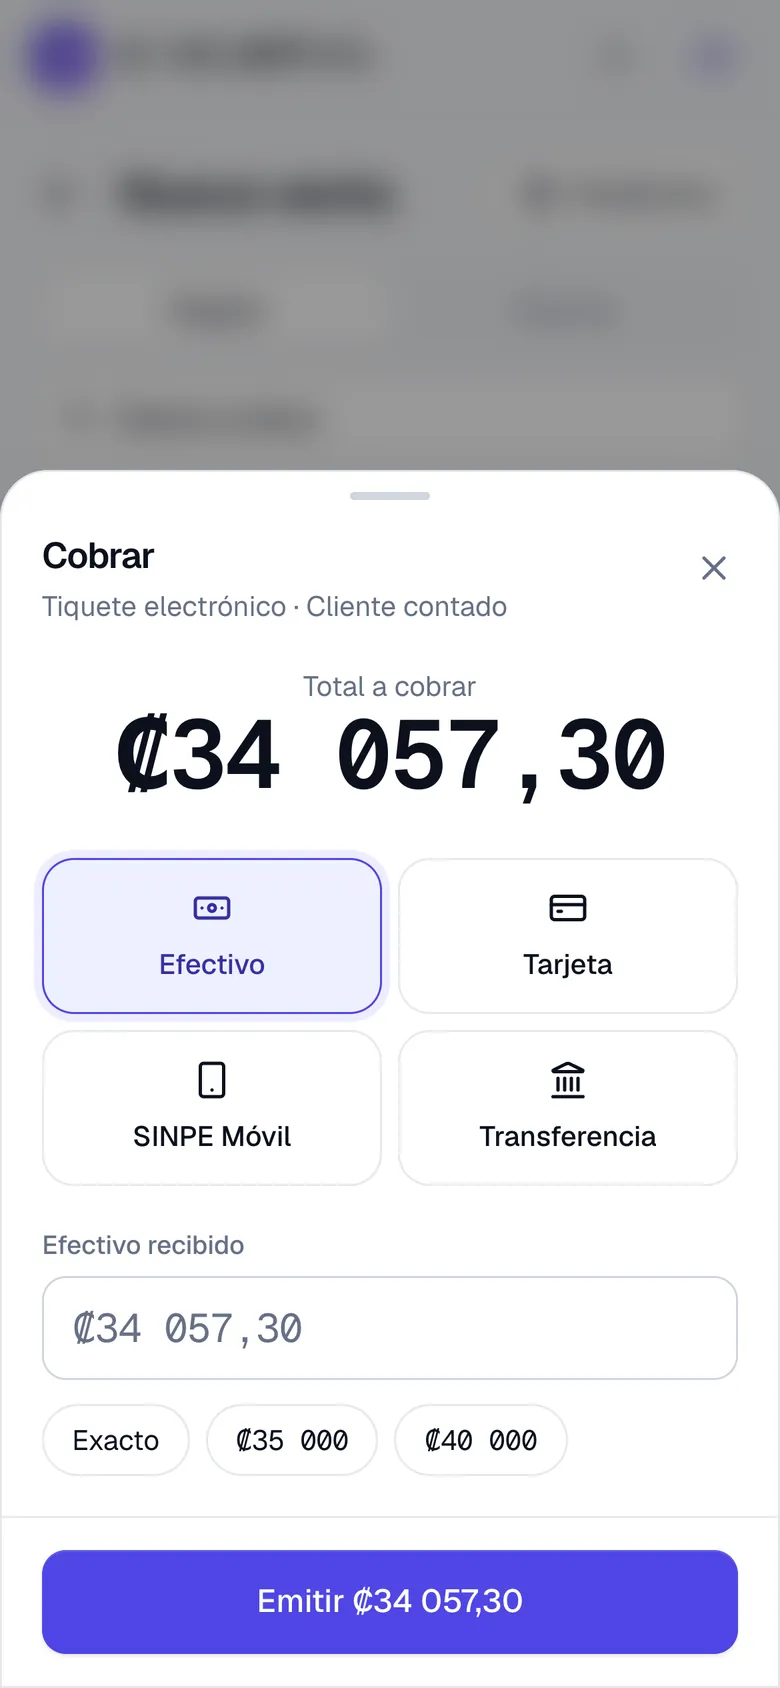
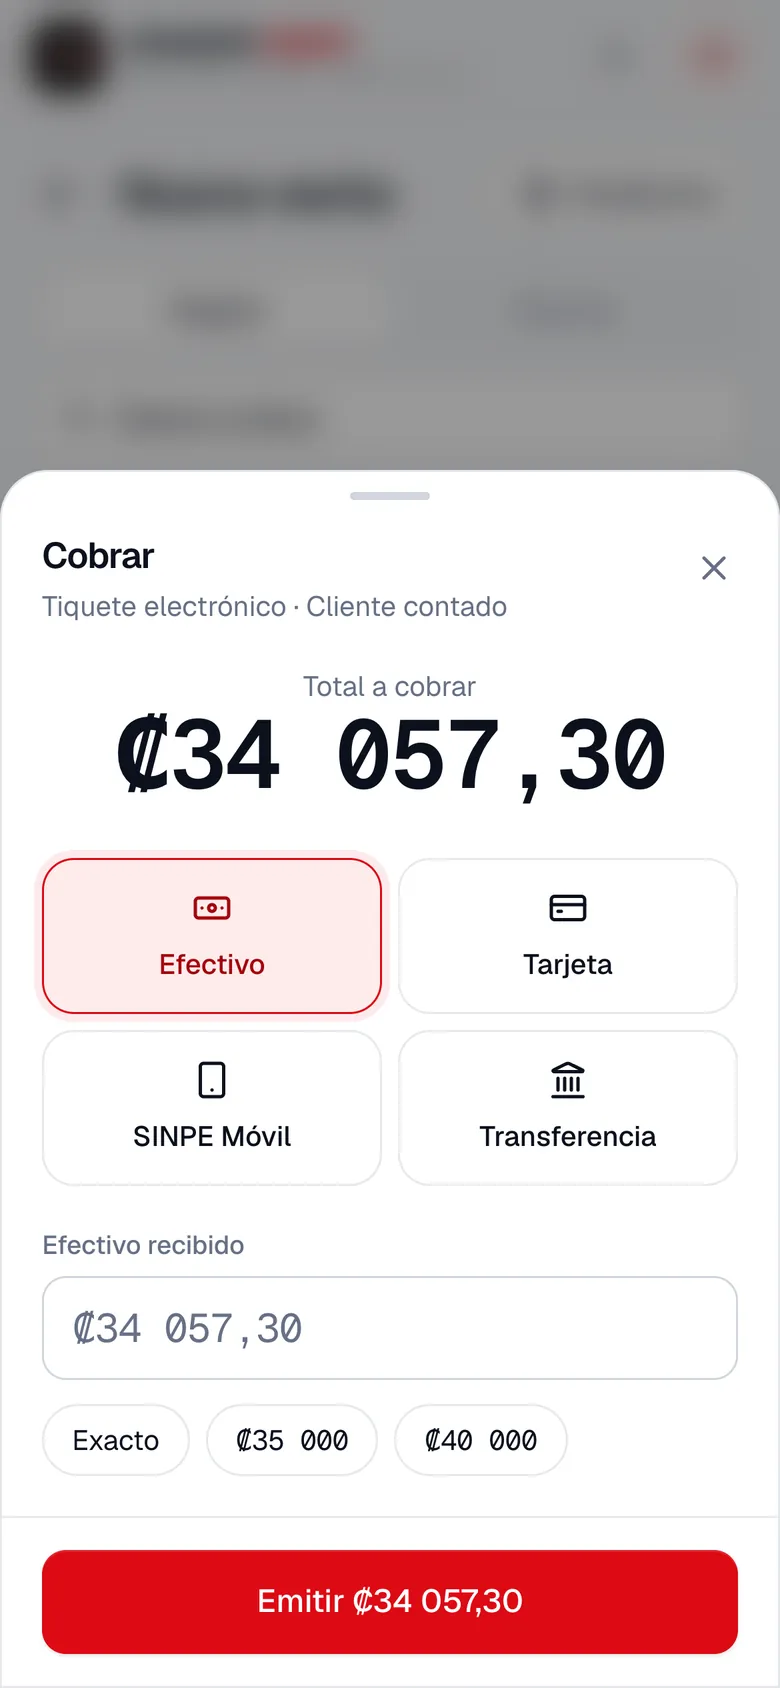
Montevo One: sección del producto propio; Repuestos Oconitrillo y Oconitrillo Usados; capturas nuevas de Ranger SWAT
Claude-Session: https://claude.ai/code/session_018UCKGMtG2XUVk9aNjHVJGe

diff --git a/index.html b/index.html
@@ -120,6 +120,7 @@
       <nav class="nav__links" id="navLinks" aria-label="Principal">
         <a href="#services">Servicios</a>
         <a href="#demos">Ejemplos</a>
+        <a href="#montevo-one">Montevo One</a>
         <a href="#work">Trabajo</a>
         <a href="#process">Proceso</a>
         <a href="#contact" class="nav__cta">Hablemos</a>
@@ -176,7 +177,7 @@
     <!-- STATEMENT (scroll-driven) -->
     <section class="statement" aria-label="Quiénes somos">
       <div class="statement__sticky">
-        <p class="statement__text" data-scrub>Diseño y programo cosas que la gente usa de verdad: el sistema que factura en tu negocio, el portafolio que muestra tu trabajo, la invitación que todos comentan. Una sola persona a cargo, de la idea al lanzamiento.</p>
+        <p class="statement__text" data-scrub>Diseño y programo cosas que la gente usa de verdad: el sistema que factura en tu negocio, el portafolio que muestra tu trabajo, la invitación que todos comentan. Nada genérico: todo a tu medida, con tu idea y tu marca. Una sola persona a cargo, de la idea al lanzamiento.</p>
       </div>
     </section>
 
@@ -222,7 +223,7 @@
             </article>
             <article class="pillar" data-pillar="2">
               <h3 class="pillar__name">Facturación electrónica</h3>
-              <p class="pillar__desc">Sistemas de facturación conectados a Hacienda, para régimen simplificado y personas jurídicas. Comprobantes válidos, sin complicarte.</p>
+              <p class="pillar__desc">Con Montevo One, mi sistema propio: facturación conectada a Hacienda junto con inventario, clientes, caja o citas, todo en un solo lugar y a tu medida.</p>
               <ul class="pillar__list"><li>Facturas y tiquetes electrónicos</li><li>Notas de crédito y débito</li><li>Régimen simplificado</li><li>Personas jurídicas</li></ul>
             </article>
             <article class="pillar" data-pillar="3">
@@ -353,6 +354,87 @@
       </div>
     </section>
 
+    <!-- MONTEVO ONE (producto propio) -->
+    <section class="billing" id="montevo-one" data-nav="dark" data-glow>
+      <div class="wrap">
+        <header class="billing__head">
+          <div class="section-head" data-reveal>
+            <p class="badge"><span class="badge__dot"></span>Nuevo · Producto propio</p>
+            <h2 class="section-title">Montevo One.<br /><span class="muted">Todo tu negocio en un solo lugar.</span></h2>
+          </div>
+          <p class="billing__lead" data-reveal style="--d:120ms">Facturación electrónica y todo lo que tu negocio usa cada día, como inventario, clientes, caja o citas, en un solo sistema rápido y fácil de usar. Y hecho a tu medida: con tu marca y a tu manera de trabajar.</p>
+        </header>
+
+        <div class="billing__show" data-reveal>
+          <div class="billing__tabs filters filters--dark" role="tablist" aria-label="Ver un sistema">
+            <span class="filters__pill" aria-hidden="true"></span>
+            <button role="tab" aria-selected="true" data-skin="0">Ranger SWAT</button>
+            <button role="tab" aria-selected="false" data-skin="1">Oconitrillo</button>
+            <button role="tab" aria-selected="false" data-skin="2">Usados</button>
+          </div>
+          <div class="billing__stage">
+            <div class="billing__desk">
+              <img class="is-on" src="./projects/ranger-swat/cover.webp" alt="Inicio del sistema de Ranger SWAT en computadora" width="1600" height="1000" loading="lazy" decoding="async" />
+              <img src="./projects/repuestos-oconitrillo/cover.webp" alt="Inicio del sistema de Repuestos Oconitrillo en computadora" width="1600" height="1000" loading="lazy" decoding="async" />
+              <img src="./projects/oconitrillo-usados/cover.webp" alt="Venta de una pieza usada en el sistema de Oconitrillo" width="1600" height="1000" loading="lazy" decoding="async" />
+            </div>
+            <div class="billing__phone">
+              <img class="is-on" src="./projects/ranger-swat/movil-cobrar.webp" alt="Cobro en el celular con Ranger SWAT" width="780" height="1688" loading="lazy" decoding="async" />
+              <img src="./projects/repuestos-oconitrillo/movil-caja.webp" alt="Caja abierta en el celular con Repuestos Oconitrillo" width="780" height="1688" loading="lazy" decoding="async" />
+              <img src="./projects/oconitrillo-usados/movil-emitido.webp" alt="Tiquete emitido en el celular con Oconitrillo Usados" width="780" height="1688" loading="lazy" decoding="async" />
+            </div>
+          </div>
+          <p class="billing__caption">La misma base en tres negocios distintos, cada uno con sus colores, su logo y su forma de vender.</p>
+        </div>
+
+        <div class="versus">
+          <div class="versus__col" data-reveal>
+            <p class="versus__label">Un sistema genérico</p>
+            <ul>
+              <li>El mismo producto para todos</li>
+              <li>Tú te adaptas a él</li>
+              <li>Un programa para facturar y otros para lo demás</li>
+              <li>Soporte de un centro de llamadas</li>
+            </ul>
+          </div>
+          <div class="versus__col versus__col--one" data-reveal style="--d:100ms">
+            <p class="versus__label">Montevo One</p>
+            <ul>
+              <li>Moldeado a tu negocio, con tu marca</li>
+              <li>Él se adapta a ti y crece contigo</li>
+              <li>Todo en un solo lugar, en una sola inversión</li>
+              <li>Hablas directo con quien lo programa</li>
+            </ul>
+          </div>
+        </div>
+
+        <p class="eyebrow billing__sub" data-reveal>Lo que puede incluir</p>
+        <ul class="feats">
+          <li data-reveal><h3>Facturación electrónica</h3><p>Tiquetes, facturas y notas de crédito con CABYS, firmados y enviados a Hacienda.</p></li>
+          <li data-reveal style="--d:60ms"><h3>Régimen simplificado</h3><p>Facturación sencilla para quien no necesita más.</p></li>
+          <li data-reveal style="--d:120ms"><h3>Inventario</h3><p>Existencias al día con cada venta y avisos de stock bajo.</p></li>
+          <li data-reveal style="--d:180ms"><h3>Clientes y crédito</h3><p>Datos de cada cliente y cuentas por cobrar con la antigüedad de cada saldo.</p></li>
+          <li data-reveal style="--d:240ms"><h3>Citas y agenda</h3><p>Que tus clientes reserven su espacio, por ejemplo en tu peluquería, y tú lo veas en el mismo sistema.</p></li>
+          <li data-reveal style="--d:300ms"><h3>Caja</h3><p>Apertura con fondo, retiros, ingresos y cierre con el efectivo contado.</p></li>
+          <li data-reveal style="--d:360ms"><h3>Proveedores</h3><p>Compras que suben existencias y cuentas por pagar con vencimientos.</p></li>
+          <li data-reveal style="--d:420ms"><h3>Reportes</h3><p>Ventas, IVA por tarifa y lo más vendido, en Excel para tu contador.</p></li>
+          <li data-reveal style="--d:480ms" class="feats__more"><h3>Lo que tu negocio necesite</h3><p>Si tu forma de trabajar pide algo más, lo construyo dentro del mismo sistema.</p></li>
+        </ul>
+
+        <ol class="flow">
+          <li data-reveal style="--d:0ms"><span class="flow__n">01</span><h3>Vender</h3><p>Busca por código o nombre y arma la venta en segundos.</p></li>
+          <li data-reveal style="--d:80ms"><span class="flow__n">02</span><h3>Cobrar</h3><p>Efectivo, tarjeta, SINPE Móvil o transferencia.</p></li>
+          <li data-reveal style="--d:160ms"><span class="flow__n">03</span><h3>Hacienda</h3><p>El comprobante se firma, se envía y queda guardada la respuesta.</p></li>
+          <li data-reveal style="--d:240ms"><span class="flow__n">04</span><h3>Entregar</h3><p>Hoja carta, tiquete de 80 mm, PDF o correo al cliente.</p></li>
+        </ol>
+
+        <div class="billing__foot" data-reveal>
+          <p class="billing__claim">Para ti, a tu medida, con tu idea y tu marca.</p>
+          <a href="#contact" class="btn btn--paper btn--xl" data-magnetic data-pick="Facturación"><span>Quiero mi Montevo One</span></a>
+        </div>
+      </div>
+    </section>
+
     <!-- WORK -->
     <section class="work" id="work">
       <div class="wrap">
@@ -370,7 +452,7 @@
     <!-- MARQUEE -->
     <div class="marquee" aria-hidden="true">
       <div class="marquee__track" data-marquee>
-        <span>Websites</span><i></i><span>Apps multiplataforma</span><i></i><span>Facturación electrónica</span><i></i><span>Inventarios</span><i></i><span>Catálogos</span><i></i><span>Punto de venta</span><i></i><span>Portafolios</span><i></i><span>Invitaciones</span><i></i>
+        <span>Websites</span><i></i><span>Apps multiplataforma</span><i></i><span>Montevo One</span><i></i><span>Facturación electrónica</span><i></i><span>Inventarios</span><i></i><span>Catálogos</span><i></i><span>Punto de venta</span><i></i><span>Portafolios</span><i></i><span>Invitaciones</span><i></i>
       </div>
     </div>
 
@@ -467,6 +549,14 @@
           <div class="qa" data-reveal>
             <h3><button aria-expanded="false" aria-controls="qa0" id="qa0-q">¿Trabajas solo con empresas?<span class="qa__icon" aria-hidden="true"></span></button></h3>
             <div class="qa__a" id="qa0" role="region" aria-labelledby="qa0-q"><div><p>No. También hago portafolios personales, páginas para artistas e invitaciones interactivas para cumpleaños y otros eventos. Si tienes una idea, la conversamos y te digo cómo llevarla a algo que funcione.</p></div></div>
+          </div>
+          <div class="qa" data-reveal>
+            <h3><button aria-expanded="false" aria-controls="qa7" id="qa7-q">¿Qué es Montevo One?<span class="qa__icon" aria-hidden="true"></span></button></h3>
+            <div class="qa__a" id="qa7" role="region" aria-labelledby="qa7-q"><div><p>Es mi sistema propio para negocios. Reúne la facturación electrónica con lo que tu negocio usa todos los días, como inventario, clientes, caja o citas, en una sola aplicación rápida y fácil de usar. Cada Montevo One se adapta al negocio que lo usa: lleva tu marca y funciona a tu manera.</p></div></div>
+          </div>
+          <div class="qa" data-reveal>
+            <h3><button aria-expanded="false" aria-controls="qa8" id="qa8-q">¿En qué se diferencia de otros sistemas de facturación?<span class="qa__icon" aria-hidden="true"></span></button></h3>
+            <div class="qa__a" id="qa8" role="region" aria-labelledby="qa8-q"><div><p>La mayoría son un producto igual para todos: pagas un precio y te adaptas a lo que trae. Montevo One se moldea a tu negocio. Si necesitas algo que no tiene, lo construyo dentro del mismo sistema, y hablas directo conmigo, que soy quien lo programa.</p></div></div>
           </div>
           <div class="qa" data-reveal>
             <h3><button aria-expanded="false" aria-controls="qa1" id="qa1-q">¿Qué necesito para empezar a facturar electrónicamente?<span class="qa__icon" aria-hidden="true"></span></button></h3>

diff --git a/src/styles.css b/src/styles.css
@@ -980,3 +980,91 @@ html.is-locked, html.is-locked body { overflow: hidden; }
 @media (max-width: 640px) {
   .form__row { grid-template-columns: 1fr; }
 }
+
+/* === FACTURACIÓN (producto propio) === */
+.billing {
+  background: var(--night);
+  color: var(--paper);
+  padding: clamp(96px, 14vw, 180px) 0;
+  border-radius: var(--radius);
+  margin-top: clamp(96px, 14vw, 180px);
+}
+.billing .muted { color: var(--night-mute); }
+.billing__head { display: grid; grid-template-columns: 1.3fr 1fr; gap: 24px clamp(32px, 6vw, 96px); align-items: end; margin-bottom: clamp(48px, 7vw, 88px); }
+.billing__head .section-head { margin-bottom: 0; }
+.billing__lead { font-weight: 300; font-size: clamp(1.125rem, 1.6vw, 1.375rem); color: var(--night-mute); max-width: 38ch; }
+
+.badge {
+  display: inline-flex; align-items: center; gap: 10px;
+  margin-bottom: 24px; padding: 8px 16px 6px;
+  border-radius: 999px; box-shadow: inset 0 0 0 1px var(--night-line);
+  font-size: .9375rem; font-weight: 500; color: var(--copper-soft);
+}
+.badge__dot { width: 8px; height: 8px; margin-top: -2px; border-radius: 50%; background: var(--copper); box-shadow: 0 0 0 0 rgba(160, 103, 51, .6); animation: badge-pulse 2.4s var(--ease-out) infinite; }
+@keyframes badge-pulse { 70%, 100% { box-shadow: 0 0 0 10px rgba(160, 103, 51, 0); } }
+
+.filters--dark { background: rgba(242, 235, 226, .08); }
+.filters--dark button { color: var(--night-mute); }
+.filters--dark button[aria-selected="true"] { color: var(--ink); }
+.filters--dark .filters__pill { background: var(--paper); box-shadow: none; }
+
+.billing__show { display: grid; justify-items: center; gap: clamp(28px, 4vw, 44px); }
+.billing__stage { position: relative; width: 100%; padding-right: clamp(40px, 9vw, 140px); }
+.billing__desk, .billing__phone { display: grid; overflow: hidden; background: var(--night-2); }
+.billing__desk img, .billing__phone img {
+  grid-area: 1 / 1; width: 100%; height: auto;
+  opacity: 0; transform: scale(1.03);
+  transition: opacity .7s var(--ease-out), transform 1.2s var(--ease-out);
+}
+.billing__desk img.is-on, .billing__phone img.is-on { opacity: 1; transform: none; }
+.billing__desk { aspect-ratio: 16 / 10; border-radius: clamp(14px, 2vw, 22px); box-shadow: 0 0 0 1px var(--night-line), 0 50px 120px -40px rgba(0, 0, 0, .7); }
+.billing__phone {
+  position: absolute; right: 0; bottom: clamp(-48px, -4vw, -16px);
+  width: clamp(120px, 22%, 260px); aspect-ratio: 780 / 1688;
+  border-radius: clamp(22px, 3vw, 38px); border: clamp(5px, .7vw, 8px) solid #120c08;
+  box-shadow: 0 40px 90px -30px rgba(0, 0, 0, .8);
+}
+.billing__caption { margin-top: clamp(16px, 4vw, 40px); color: var(--night-mute); font-size: 1rem; text-align: center; max-width: 46ch; }
+
+.flow { list-style: none; display: grid; grid-template-columns: repeat(4, 1fr); gap: 0; margin: clamp(72px, 10vw, 128px) 0 0; }
+.flow li { position: relative; padding: 28px 24px 0 0; border-top: 1px solid var(--night-line); }
+.flow li::before { content: ''; position: absolute; top: -1px; left: 0; width: 40px; height: 1px; background: var(--copper); }
+.flow__n { display: block; font-size: .875rem; font-weight: 500; color: var(--copper); margin-bottom: 14px; font-variant-numeric: tabular-nums; }
+.flow h3 { font-size: clamp(1.5rem, 2.4vw, 2rem); font-weight: 500; letter-spacing: -.03em; line-height: 1; margin-bottom: 10px; }
+.flow p { color: var(--night-mute); font-weight: 300; font-size: 1.0625rem; max-width: 24ch; }
+
+.feats { display: grid; grid-template-columns: repeat(3, 1fr); gap: 12px; }
+.feats li { padding: clamp(22px, 2.6vw, 32px); border-radius: 20px; background: rgba(242, 235, 226, .04); box-shadow: inset 0 0 0 1px var(--night-line); transition: background-color .4s; }
+.feats li:hover { background: rgba(242, 235, 226, .07); }
+.feats h3 { font-size: 1.25rem; font-weight: 500; letter-spacing: -.02em; margin-bottom: 8px; }
+.feats p { color: var(--night-mute); font-weight: 300; font-size: 1.0625rem; }
+
+.billing__foot { display: flex; align-items: center; justify-content: space-between; gap: 24px; flex-wrap: wrap; margin-top: clamp(72px, 10vw, 128px); padding-top: clamp(40px, 5vw, 56px); border-top: 1px solid var(--night-line); }
+.billing__claim { font-size: clamp(1.5rem, 3vw, 2.5rem); font-weight: 500; letter-spacing: -.035em; line-height: 1.05; max-width: 18ch; }
+.billing__sub { margin-bottom: 24px; }
+
+.versus { display: grid; grid-template-columns: 1fr 1fr; gap: 12px; margin: clamp(72px, 10vw, 128px) 0; }
+.versus__col { padding: clamp(28px, 3.4vw, 44px); border-radius: 24px; box-shadow: inset 0 0 0 1px var(--night-line); }
+.versus__col--one { background: var(--paper); color: var(--ink); box-shadow: none; }
+.versus__label { font-size: clamp(1.5rem, 2.4vw, 2rem); font-weight: 500; letter-spacing: -.03em; margin-bottom: 20px; }
+.versus__col li { position: relative; padding: 12px 0 10px 30px; border-top: 1px solid var(--night-line); color: var(--night-mute); font-weight: 300; }
+.versus__col li::before { content: '–'; position: absolute; left: 4px; top: 11px; }
+.versus__col--one li { border-color: var(--line); color: var(--ink); font-weight: 400; }
+.versus__col--one li::before { content: ''; left: 2px; top: 17px; width: 14px; height: 8px; border: solid var(--copper); border-width: 0 0 2px 2px; transform: rotate(-45deg); }
+.feats__more { background: rgba(160, 103, 51, .16) !important; box-shadow: inset 0 0 0 1px rgba(160, 103, 51, .5) !important; }
+.btn--paper { background: var(--paper); color: var(--ink); }
+.btn--paper:hover { background: var(--copper); color: var(--paper); }
+
+@media (max-width: 900px) {
+  .billing__head { grid-template-columns: 1fr; }
+  .flow { grid-template-columns: 1fr 1fr; row-gap: 40px; }
+  .feats { grid-template-columns: 1fr 1fr; }
+  .versus { grid-template-columns: 1fr; }
+}
+@media (max-width: 560px) {
+  .billing { border-radius: 22px; }
+  .flow, .feats { grid-template-columns: 1fr; }
+  .billing__stage { padding-right: 56px; }
+  .billing__phone { width: 112px; }
+  .billing__foot .btn { width: 100%; }
+}

diff --git a/src/content/projects.ts b/src/content/projects.ts
@@ -25,23 +25,69 @@ export const projects: Project[] = [
     year: 2026,
     type: 'negocio',
     services: ['Facturación', 'Apps'],
-    summary: 'Sistema de facturación electrónica a la medida para Ranger SWAT, en el celular o la computadora y siempre al día con Hacienda.',
+    summary: 'Sistema de facturación electrónica para una tienda de repuestos automotrices, en el celular o la computadora y siempre al día con Hacienda.',
     description: [
-      'Un sistema de facturación hecho a la medida para Ranger SWAT, pensado para vender rápido. Se arma el carrito, cobra en efectivo, tarjeta, SINPE Móvil o transferencia, y el comprobante sale listo para Hacienda, para imprimir o enviar por correo.',
+      'Un sistema de facturación hecho a la medida para Ranger SWAT, tienda de repuestos automotrices, con su marca y pensado para vender rápido. Se arma el carrito, cobra en efectivo, tarjeta, SINPE Móvil o transferencia, y el comprobante sale listo para Hacienda, para imprimir o enviar por correo.',
       'Emite comprobantes en la versión 4.4 con códigos CABYS tomados del catálogo oficial. Además lleva productos, clientes, cuentas por cobrar y por pagar, cotizaciones y reportes que se descargan en Excel. Tiene modo claro y oscuro, y se instala como app en cualquier dispositivo, sin pasar por tiendas.',
     ],
     deliverables: ['Comprobantes electrónicos v4.4', 'Catálogo CABYS integrado', 'Cuentas por cobrar y por pagar', 'Reportes exportables a Excel', 'App instalable (PWA)'],
-    colors: ['#4F46E5', '#14112B'],
+    colors: ['#DC0A14', '#141010'],
     cover: 'projects/ranger-swat/cover.webp',
     gallery: [
       'projects/ranger-swat/vender.webp',
       'projects/ranger-swat/movil-inicio.webp',
       'projects/ranger-swat/movil-cobrar.webp',
       'projects/ranger-swat/movil-emitido.webp',
-      'projects/ranger-swat/reportes-oscuro.webp',
+      'projects/ranger-swat/reportes.webp',
     ],
     url: 'https://ranger-swat.app',
     featured: true,
+  },
+  {
+    slug: 'repuestos-oconitrillo',
+    title: 'Repuestos Oconitrillo',
+    client: 'Repuestos Oconitrillo',
+    year: 2026,
+    type: 'negocio',
+    services: ['Facturación', 'Sistemas'],
+    summary: 'Facturación, caja, inventario y compras para una tienda de repuestos, todo en un mismo sistema.',
+    description: [
+      'Un sistema a la medida para Repuestos Oconitrillo. En el mostrador se busca cada artículo por código o nombre, con su ubicación en la bodega a la vista, y la venta sale como tiquete, factura o proforma.',
+      'La caja se abre con un fondo, registra retiros e ingresos y se cierra comparando el efectivo esperado con el contado. Las compras a proveedores suben las existencias, actualizan los costos y crean la cuenta por pagar. Los reportes de ventas, compras, IVA, inventario valorizado y cierres de caja se descargan en Excel para el contador.',
+    ],
+    deliverables: ['Comprobantes electrónicos', 'Caja con apertura y cierre', 'Artículos con ubicación en bodega', 'Compras y cuentas por pagar', 'Reportes para el contador'],
+    colors: ['#B8822E', '#161513'],
+    cover: 'projects/repuestos-oconitrillo/cover.webp',
+    gallery: [
+      'projects/repuestos-oconitrillo/vender.webp',
+      'projects/repuestos-oconitrillo/movil-vender.webp',
+      'projects/repuestos-oconitrillo/movil-caja.webp',
+      'projects/repuestos-oconitrillo/movil-articulos.webp',
+      'projects/repuestos-oconitrillo/reportes.webp',
+    ],
+  },
+  {
+    slug: 'oconitrillo-usados',
+    title: 'Oconitrillo Repuestos Usados',
+    client: 'Repuestos Oconitrillo',
+    year: 2026,
+    type: 'negocio',
+    services: ['Facturación', 'Sistemas'],
+    summary: 'Facturación pensada para piezas usadas: cada pieza se describe y se cobra al momento, sin catálogo rígido.',
+    description: [
+      'Para la venta de repuestos usados, Repuestos Oconitrillo necesitaba otra forma de vender: cada pieza es distinta. El sistema arranca con una pregunta, "¿Qué pieza vende hoy?", y permite escribir el nombre que va en el comprobante, ajustar el precio y elegir la marca del carro.',
+      'Antes de cobrar se revisa la venta completa y se elige tiquete o factura. Lleva su catálogo de piezas, clientes, comprobantes con su estado en Hacienda y reportes que se descargan en Excel.',
+    ],
+    deliverables: ['Venta pieza por pieza', 'Comprobantes electrónicos', 'Catálogo de piezas', 'Reportes exportables a Excel'],
+    colors: ['#1A1A1A', '#F2F2F2'],
+    cover: 'projects/oconitrillo-usados/cover.webp',
+    gallery: [
+      'projects/oconitrillo-usados/revisar.webp',
+      'projects/oconitrillo-usados/movil-pieza.webp',
+      'projects/oconitrillo-usados/movil-revisar.webp',
+      'projects/oconitrillo-usados/movil-emitido.webp',
+      'projects/oconitrillo-usados/reportes.webp',
+    ],
   },
   {
     slug: 'd-rabbit',

diff --git a/src/modules/billing.ts b/src/modules/billing.ts
@@ -1,0 +1,44 @@
+import { $, $$, reducedMotion } from '../lib/dom';
+import { segmented } from '../lib/segmented';
+
+/**
+ * Billing section: switches between the systems built on the same base
+ * (desktop + phone screenshots), rotating on its own until someone picks one.
+ * Its CTA also preselects "Facturación" in the contact form.
+ */
+export function initBilling() {
+  const section = $('#montevo-one');
+  const tabs = $('.billing__tabs', section ?? document);
+  if (!section || !tabs) return;
+
+  const buttons = $$<HTMLButtonElement>('button', tabs);
+  const layers = [$$('.billing__desk img', section), $$('.billing__phone img', section)];
+  let current = 0, timer = 0, touched = false, visible = false;
+
+  const show = (i: number) => {
+    current = i;
+    layers.forEach(imgs => imgs.forEach((img, k) => img.classList.toggle('is-on', k === i)));
+  };
+
+  segmented(tabs, btn => {
+    touched = true;
+    stop();
+    show(Number(btn.dataset.skin ?? 0));
+  });
+
+  const next = () => buttons[(current + 1) % buttons.length].click();
+  function stop() { clearInterval(timer); timer = 0; }
+  function sync() {
+    if (visible && !touched && !reducedMotion && !timer) {
+      timer = window.setInterval(() => { next(); touched = false; }, 4500);
+    } else if (!visible) stop();
+  }
+
+  new IntersectionObserver(([e]) => { visible = e.isIntersecting; sync(); }, { threshold: 0.4 })
+    .observe($('.billing__stage', section)!);
+
+  $$<HTMLElement>('[data-pick]', section).forEach(link => link.addEventListener('click', () => {
+    const radio = document.querySelector<HTMLInputElement>(`#contactForm input[name="tipo"][value="${link.dataset.pick}"]`);
+    if (radio) radio.checked = true;
+  }));
+}

diff --git a/src/main.ts b/src/main.ts
@@ -24,6 +24,7 @@ import { initGlow } from './modules/glow';
 import { initTilt } from './modules/tilt';
 import { initCounters } from './modules/count';
 import { initContact } from './modules/contact';
+import { initBilling } from './modules/billing';
 
 if (import.meta.env.DEV) {
   const seen = new Set<string>();
@@ -49,6 +50,7 @@ initServices();
 initMascot();
 initMagnetic();
 initDemos();
+initBilling();
 initFaq();
 initRotator();
 initMarquee();
